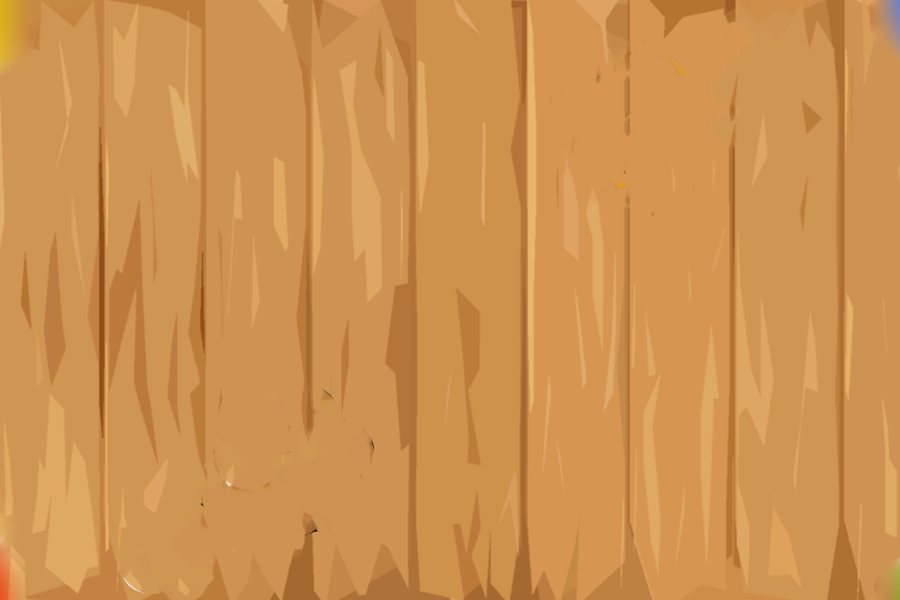
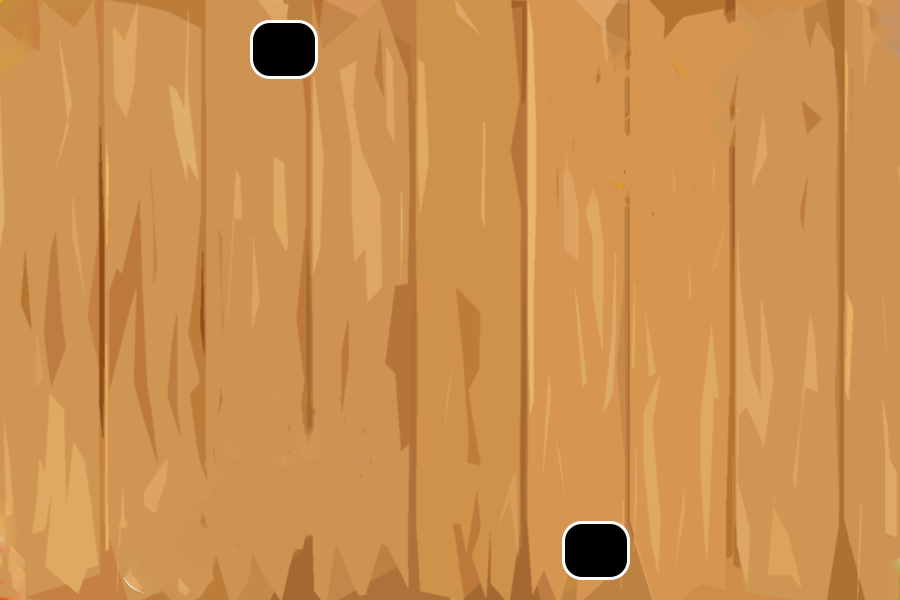
Логика захватывания рыбки, вывод р-тов, убрал лишний спрайт из tools.

diff --git a/cat.py b/cat.py
@@ -3,12 +3,26 @@ import sys
 import random
 
 import pygame
-from tools import load_image, Background
+from tools import load_image
 
 pygame.init()
 size = width, height = 900, 600
 screen = pygame.display.set_mode(size)
 
+p1, p2 = 0, 0
+
+
+def show_points(sc):
+    font = pygame.font.Font(None, 60)
+    points1 = font.render(str(p1), True, (255, 255, 255))
+    p1_x = 273
+    p1_y = 32
+    sc.blit(points1, (p1_x, p1_y))
+
+    points2 = font.render(str(p2), True, (255, 255, 255))
+    p2_x = 585
+    p2_y = 534
+    sc.blit(points2, (p2_x, p2_y))
 
 
 class Pow(pygame.sprite.Sprite):
@@ -51,7 +65,7 @@ class Pow(pygame.sprite.Sprite):
     def update(self):
         if self.pressed:
             self.timer += 1
-            if self.timer > 5:
+            if self.timer > 4:
                 self.unpress()
 
 
@@ -84,7 +98,6 @@ class Fish(pygame.sprite.Sprite):
         pass
 
 
-
 class FishGroup(pygame.sprite.Group):
     def __init__(self, *sprites):
         super().__init__(*sprites)
@@ -94,19 +107,34 @@ class FishGroup(pygame.sprite.Group):
         self.bomb_flag = False
         self.good_flag = False
 
+    def press(self, left: bool):
+        global p1, p2
+        if self.good_flag:
+            self.good_flag = False
+            if left:
+                p1 += 1
+            else:
+                p2 += 1
+        elif self.bomb_flag:
+            self.bomb_flag = False
+            if left:
+                p1 -= 2
+            else:
+                p2 -= 2
+        self.good.hide()
+        self.bomb.hide()
+
     def update(self, *args):
         super(FishGroup, self).update()
-        rnd = random.randint(0, 120)
-        # print(rnd)
+        print(self.bomb_flag)
+        rnd = random.randint(0, 180)
         if self.good_flag or self.bomb_flag:
             self.timer += 1
         if self.timer > 60 and self.bomb_flag:
-            print(0, self.timer, self.bomb_flag, self.good_flag)
             self.bomb.hide()
             self.bomb_flag = False
             self.timer = 0
-        elif self.timer > 40 and self.good_flag:
-            print(1, self.timer, self.bomb_flag, self.good_flag)
+        elif self.timer > 60 and self.good_flag:
             self.good.hide()
             self.good_flag = False
             self.timer = 0
@@ -116,8 +144,6 @@ class FishGroup(pygame.sprite.Group):
         elif rnd == 1 and not self.bomb_flag and not self.good_flag:
             self.good.show()
             self.good_flag = True
-
-
 
 
 if __name__ == '__main__':
@@ -143,7 +169,6 @@ if __name__ == '__main__':
     running = True
     fps = 30  # пикселей в секунду
     clock = pygame.time.Clock()
-    pygame.mouse.set_visible(False)
     while running:
         for event in pygame.event.get():
             if event.type == pygame.QUIT:
@@ -151,12 +176,16 @@ if __name__ == '__main__':
             if event.type == pygame.KEYDOWN:  # rshift — 303,     lshift — 304
                 if event.key == 303:
                     r_pow.press()
+                    fishs.press(False)
                 elif event.key == 304:
                     l_pow.press()
+                    fishs.press(True)
         screen.fill((255, 255, 255))
+        print(p1, p2)
         fishs.update()
         all_sprites.update()
         all_sprites.draw(screen)
+        show_points(screen)
         pygame.display.flip()
         clock.tick(fps)
 

diff --git a/tools.py b/tools.py
@@ -5,15 +5,6 @@ import pygame
 import pygame.examples.eventlist
 
 
-class Background(pygame.sprite.Sprite):
-    def __init__(self, group, bg_filename):
-        super(Background, self).__init__()
-        self.img = load_image(bg_filename)
-        self.rect = self.img.get_rect()
-        self.rect.x, self.rect.y = 0, 0
-        print(0)
-
-
 def load_image(name, colorkey=None):
     fullname = os.path.join('images', name)
     # если файл не существует, то выходим
